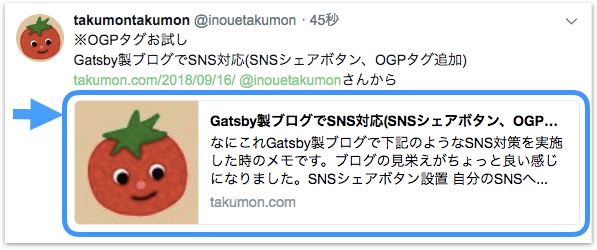
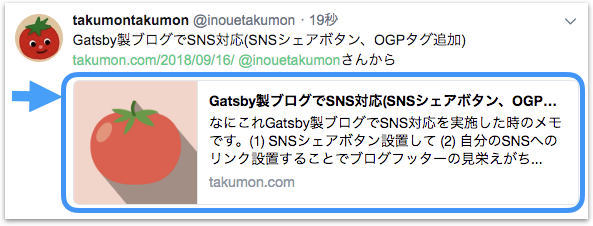
2セクション(SNSシェアアイコン設置、自分へのSNSリンク設置 )の記事追記

diff --git a/src/pages/2018/09/16/index.md b/src/pages/2018/09/16/index.md
@@ -8,16 +8,128 @@ Gatsby製ブログでSNS対応を実施した時のメモです。<br>
 **(1) SNSシェアボタン設置**して **(2) 自分のSNSへのリンク設置**することでブログフッターの見栄えがちょっと良い感じになりました。
   ![ブログフッタ](./blog-footer.png)
 
-またSNSシェア時にわかりやすくするためにOGPタグなるものを設定しました。Twitterで呟くと画像、タイトル、記事概要を表示できるようになります。<br>はてなブログとかQiitaみたいな感じですね。
-  ![つぶやきサンプル](./tweet-sample.png)
+またSNSシェア時にわかりやすくするために**(3) OGPタグなるものを設定**しました。Twitterで呟くと画像、タイトル、記事概要を表示できるようになります。<br>はてなブログとかQiitaみたいな感じですね。
+  ![つぶやきサンプル](./tweet-sample-with-number.png)
 
-##  SNSシェアボタンを設置
-TODO 手順記載
+##  1. SNSシェアボタンを設置
+[react-share](https://github.com/nygardk/react-share)で超簡単に設置できます。
 
-## 自分のSNSへのリンクを設置
-TODO 手順記載
+ここではFacebook、Google、Linkedin、Twitterのアイコンを設置します。<br>
+基本は記事のURLを`url`属性に、アイコンサイズを`icon`属性に指定します。<br>
+Twitterの場合はブロガーのTwitterアカウントを`via`属性に、ブログ記事タイトルを`title`属性に指定します。
 
-## OGPタグを設定
+```jsx{13}
+<FacebookShareButton url={link}>
+  <FacebookIcon size={32} round />
+</FacebookShareButton>
+
+<GooglePlusShareButton url={link}>
+  <GooglePlusIcon size={32} round />
+</GooglePlusShareButton>
+
+<LinkedinShareButton url={link}>
+  <LinkedinIcon title={title} size={32} round />
+</LinkedinShareButton>
+
+<TwitterShareButton title={title} via={twitterUserName} url={link}>
+  <TwittearIcon size={32} round />
+</TwitterShareButton>
+```
+
+そうすると下記のように画面にSNSシェアアイコンが表示されます。
+![SNSシェアアイコン](./sns-share-icons.png)
+
+
+はてブ追加ボタンは下記のようにします。
+
+```jsx
+<Helmet>
+  <script type="text/javascript" src="//b.st-hatena.com/js/bookmark_button.js" charset="utf-8" async="async" />
+</Helmet>
+<a
+  href="http://b.hatena.ne.jp/entry/"
+  className="hatena-bookmark-button"
+  data-hatena-bookmark-layout="vertical-normal"
+  data-hatena-bookmark-lang="ja"
+  title="このエントリーをはてなブックマークに追加"
+  >
+  <img
+    src="//b.st-hatena.com/images/entry-button/button-only@2x.png"
+    alt="このエントリーをはてなブックマークに追加"
+    width="20"
+    height="20"
+    style={{border: 'none'}}
+  />
+</a>
+```
+
+そうすると下記のように画面にはてブ追加アイコンが表示されます。
+![はてブシェアアイコン](./hatebu1.png)
+
+クリックするとウィジェットが表示されます。(`bookmark_button.js`がやってくれています。)
+![はてブシェアアイコンウィジェット](./hatebu2.png)
+
+
+## 2. 自分のSNSへのリンクを設置
+SNSへのリンクアイコンは[react-fontawesome](https://github.com/FortAwesome/react-fontawesome)を使います。react-fontawesomeをインストールします。
+
+```
+npm install --save @fortawesome/react-fontawesome
+npm install --save @fortawesome/fontawesome-svg-core
+npm install --save @fortawesome/free-brands-svg-icons
+npm install --save @fortawesome/free-solid-svg-icons
+npm install --save @fortawesome/free-regular-svg-icons
+```
+
+
+コンポーネントで下記のようにします。
+スタイルの細かい部分は省略していますがざっくりこんな感じです
+* GitHub → Font Awsomeアイコン使って背景をダークグレイにする
+* Twitter → Font Awsomeアイコンを使って背景を水色にする
+* Qiita → Font Awsomeに用意がないので、代わりに虫眼鏡を使って背景を黄緑にしてQiitaっぽくする
+
+```jsx{13-29}
+・・・
+
+import { FontAwesomeIcon } from '@fortawesome/react-fontawesome';
+import { faGithubSquare, faTwitterSquare } from '@fortawesome/free-brands-svg-icons'
+import { faSearch } from '@fortawesome/free-solid-svg-icons'
+
+・・・
+
+class Bio extends React.Component {
+  render() {
+    return (
+      ・・・
+      <a
+        href="https://github.com/Takumon">
+       <FontAwesomeIcon
+         color="#333"
+         icon={faGithubSquare} />
+      </a>
+      <a
+        href="https://twitter.com/inouetakumon">
+        <FontAwesomeIcon
+          color="#3eaded"
+          icon={faTwitterSquare} />
+      </a>
+      <a
+        href="https://qiita.com/Takumon">
+        <FontAwesomeIcon
+          color="white"
+          icon={faSearch} />
+      ・・・
+    );
+  }
+}
+```
+
+
+ここまでくると、下記のようなアイコンが画面に追加されています。
+![自分のSNSリンク](./my-sns-icons.png)
+
+
+## 3. OGPタグを設定
 OGPとは、「Open Graph Protcol」の略でFacebookやTwitterなどのSNSでシェアした際に、
 WEBページのタイトルやイメージ画像、説明文などをわかりやすく伝えるためのHTML要素です。
 OGPをWebページで設定することでユーザーに対してWEBページの内容を詳しく伝えることができます。
@@ -78,14 +190,14 @@ export default function Ogp({isRoot, title, description}) {
 タイトルやURLはページ個別で設定が必要です。
 Gatsby製ブログでは下記2カ所でOGPタグを呼び出します。
 
-#### 1. ブログトップページでの呼び出し
+#### ブログトップページでの呼び出し
 **src/layouts/index.js**<br>
 ※全体のテンプレートなのでURLがブログトップページの時のみOGPタグを呼び出します。
 ```jsx
 <Ogp isRoot={isRoot} />
 ```
 
-#### 2. ブログ記事ページでの呼び出し
+#### ブログ記事ページでの呼び出し
 **src/templates/blog-post.js**
 ```jsx{4}
 <Ogp isRoot={isRoot} />
